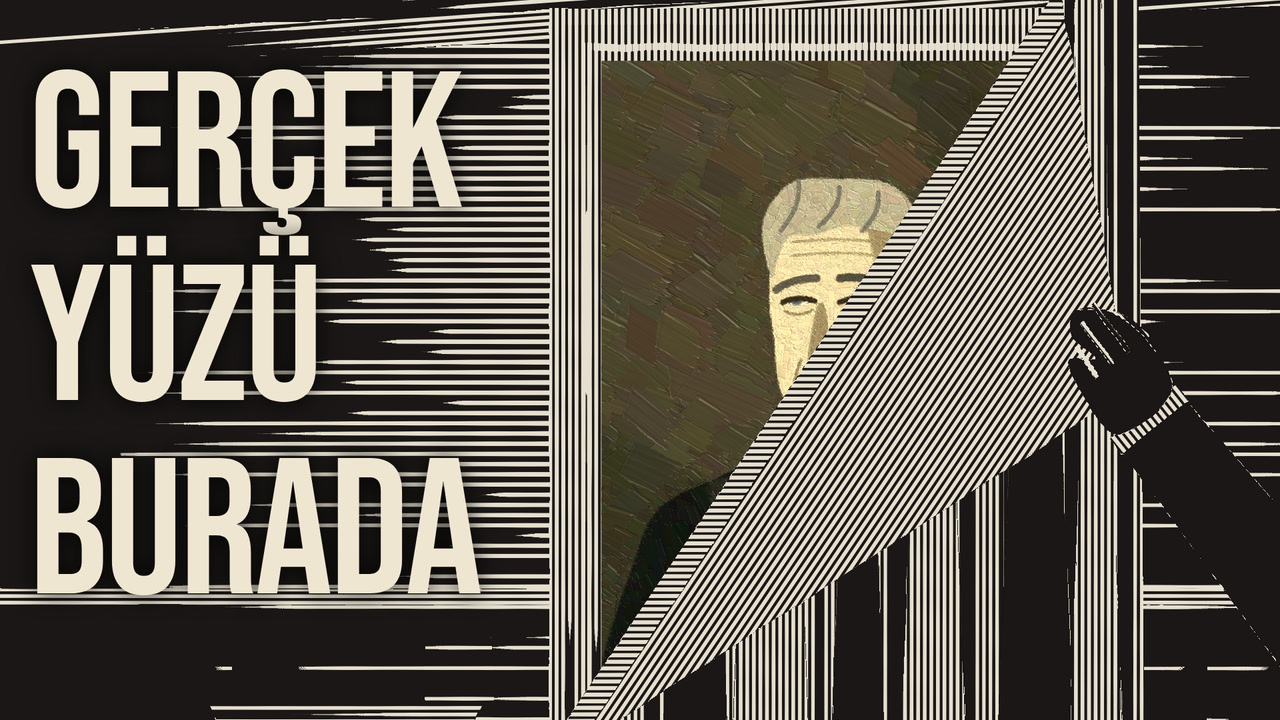
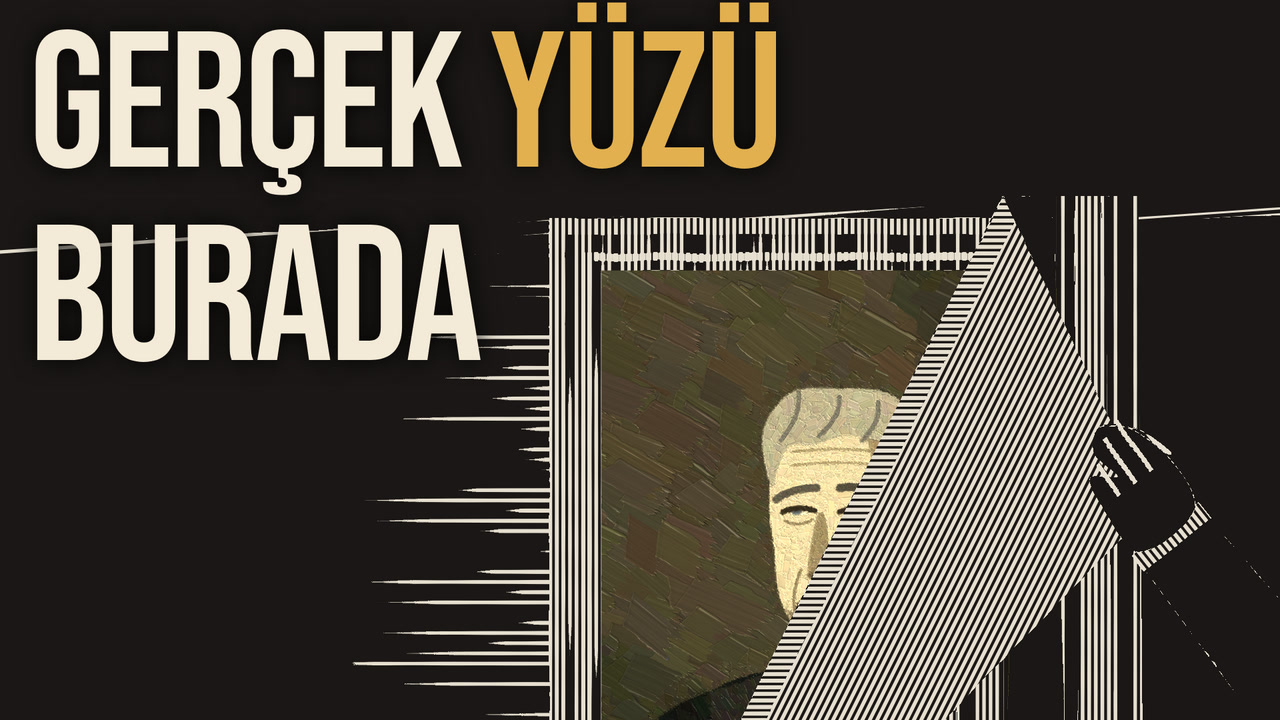
Dorian Gray kapakları kapak sistemine uydu: yazı sol üst, iki satır, tek altın vurgu
A: GERÇEK YÜZÜ / BURADA (3 satırdan 2'ye; sahne aşağıda, duvar ışığı kısık, yüz en parlak nokta).
B: BİRKAÇ CÜMLE / YETTİ (5 kelimelik ortalı yazı yerine; yakın plan, Dorian portresine dönük,
duman arkadan kulağa; Fable okumasıyla yaka griye çekildi, ip okuması giderildi).

Claude-Session: https://claude.ai/code/session_01DiDBPCNVdTbcKEowzqSXTP

diff --git a/dorian-gray/lib/kapak.js b/dorian-gray/lib/kapak.js
@@ -1,14 +1,22 @@
 // Kapaklar (1920×1080 çizilir, 1280×720 kaydedilir). Kullanım: kapak.html?render=1 → window.kapak('A'|'B', o)
-// A "ortadan başlamak": kilitli odada örtünün köşesi kalkmış; altında renkli tuvalde çökmüş yüzün bir gözü (tek renk = portre). Yazı: GERÇEK YÜZÜ BURADA (23 Kasım; eskisi KİMSE GÖRMEDİ).
-// B "A, B'yi etkiliyor": Lord Henry'nin sigara dumanı genç Dorian'ın kulağına uzanır; arkada şövalede genç portre. Yazı (4–6 kelime denemesi): HER ŞEY BİR CÜMLEYLE BAŞLADI.
+// A "ortadan başlamak": kilitli odada örtünün köşesi kalkmış; altında renkli tuvalde çökmüş yüzün bir gözü (tek renk = portre). Yazı: GERÇEK YÜZÜ / BURADA, "YÜZÜ" altın (23 Kasım; eskisi KİMSE GÖRMEDİ).
+// B "A, B'yi etkiliyor": Lord Henry'nin dumanı genç Dorian'ın kulağına uzanır; arkada şövalede genç portre. Yazı: BİRKAÇ CÜMLE / YETTİ, "CÜMLE" altın (senaryo B04: "yalnız birkaç cümle söyler").
+// 27 Kasım, kapak sistemi (kanal/KAPAK_SISTEMI.md): yazı sol üst, figür sağ, en çok 2 satır ve 4 kelime, tek vurgu kelimesi; vurgu altın = tablonun okr tonu (~43°).
+// Çekim: node dorian-gray/tools/kapak.js dorian-gray/kapak A '{"ad":"kapak_a2"}' A '{"ad":"kapak_a2_yazisiz","satir":[]}' B '{"ad":"kapak_b"}' B '{"ad":"kapak_b_yazisiz","satir":[]}'
 'use strict';
 (function () {
   const ST = { t: 2.2, lt: 2.2, p: .5, d: 4, at: 0 };
+  const FILDISI = '#F3EAD7', ALTIN = '#E2B04F';   // kapak sistemi: tablonun tonu ~43° (okr) = altın vurgu
   function yazi(ctx, satirlar, x, y, px, o = {}) {
     ctx.save(); ctx.setTransform(1, 0, 0, 1, 0, 0); ctx.textAlign = o.align || 'left'; ctx.textBaseline = 'alphabetic';
     ctx.font = `400 ${px}px "Bebas Neue"`; if (o.ls) ctx.letterSpacing = o.ls + 'px'; const lh = px * (o.lh || .92);
+    // satır düz yazı ya da [[parça, renk], …] (tek vurgu kelimesi için; kapak sistemi 27 Kasım: fildişi #F3EAD7, vurgu tek kelime)
     satirlar.forEach((s, i) => {
-      ctx.shadowColor = 'rgba(0,0,0,.85)'; ctx.shadowBlur = px * .12; ctx.fillStyle = (o.renk && o.renk[i]) || '#efe6d2'; ctx.fillText(s, x, y + i * lh);
+      ctx.shadowColor = 'rgba(0,0,0,.85)'; ctx.shadowBlur = px * .12;
+      const parca = Array.isArray(s) ? s : [[s, (o.renk && o.renk[i]) || FILDISI]];
+      let xx = o.align === 'center' ? x - parca.reduce((a, [t]) => a + ctx.measureText(t).width, 0) / 2 : x;
+      if (o.align === 'center') ctx.textAlign = 'left';
+      for (const [t, r] of parca) { ctx.fillStyle = r || FILDISI; ctx.fillText(t, xx, y + i * lh); xx += ctx.measureText(t).width; }
     });
     ctx.restore();
   }
@@ -30,10 +38,10 @@
     return [x + K[0], y + K[1]];
   }
   function kapakA(ctx, o) {
-    const cam = CAM(o.cx ?? 1170, o.cy ?? 430, o.z ?? 1.7); let Mf;
-    levha(ctx, cam, () => { SET.oda(); Mf = SET.cerceve(ODA_FR.x, ODA_FR.y, ODA_FR.s); SET.isik({ x: o.lx ?? 1260, y: o.ly ?? 380, r1: o.r1 ?? 620, a: o.ia ?? .7 }); }, [.02, 0, 0]);
+    const cam = CAM(o.cx ?? 1170, o.cy ?? 245, o.z ?? 1.7); let Mf;   // 27 Kasım: sahne aşağıda, yazıya üstte yer (eski cy 430); duvar ışığı kısık (eski r1 620, a .7): yazının arkası koyu, en parlak yer yüz
+    levha(ctx, cam, () => { SET.oda(); Mf = SET.cerceve(ODA_FR.x, ODA_FR.y, ODA_FR.s); SET.isik({ x: o.lx ?? 1260, y: o.ly ?? 380, r1: o.r1 ?? 420, a: o.ia ?? .5 }); }, [.02, 0, 0]);
     PORTRE.ciz(ctx, { M: Mf(cam), durum: o.durum || 'C', t: 10, expo: o.expo ?? 1.35 });
-    const A = o.A || [470, 0], B = o.B || [0, 700];
+    const A = o.A || [420, 0], B = o.B || [0, 840];   // 27 Kasım: dik katlama, el rozet bölgesinden yukarıda
     onKatman(ctx, cam, () => {
       const uc = perdeKalkik(1070, 100, A, B);
       // perdeyi tutan el (sol alttan uzanan kol, yüz yok)
@@ -46,22 +54,25 @@
       GR.restore();
       
     });
-    yazi(ctx, o.satir || ['GERÇEK', 'YÜZÜ', 'BURADA'], o.tx ?? 44, o.ty ?? 310, o.px ?? 290, { ls: o.ls ?? -4, lh: o.lh ?? 1.0 });   // 23 Kasım: 'KİMSE GÖRMEDİ' başlığı tekrar ediyordu (kapak merak açar, başlık tamamlar); eski yazı o.satir ile   // İ çerçeve kenarına binmesin (Fable)
+    yazi(ctx, o.satir || [[['GERÇEK ', null], ['YÜZÜ', ALTIN]], 'BURADA'], o.tx ?? 44, o.ty ?? 250, o.px ?? 290, { ls: o.ls ?? -4, lh: o.lh ?? 1.0 });   // 23 Kasım: 'KİMSE GÖRMEDİ' başlığı tekrar ediyordu (kapak merak açar, başlık tamamlar); eski yazı o.satir ile   // İ çerçeve kenarına binmesin (Fable)
   }
   function kapakB(ctx, o) {
-    const cam = CAM(o.cx ?? 1040, o.cy ?? 420, o.z ?? .95); let Mf;
+    const cam = CAM(o.cx ?? 730, o.cy ?? 450, o.z ?? 1.5); let Mf;   // 27 Kasım: yakın; Henry sol altta, Dorian ve portre sağda (eski 1040, 420, .95)
     levha(ctx, cam, () => { Mf = stuArka(ST, { isik: o.isik ?? .35 }); }, [.03, 0, 0]);
     PORTRE.ciz(ctx, { M: Mf(cam), durum: 'G', t: 10, expo: .95 });
+    // 27 Kasım (kapak sistemi): şerit yok; zemin bastırılır: odanın sol üstü gölgede (radyal), ışık sağdaki portrede kalır; figürler ve duman gölgenin üstünde
+    if (o.golge !== 0) { ctx.save(); ctx.setTransform(1, 0, 0, 1, 0, 0); const gx = o.gx ?? 260, gy = o.gy ?? 200, g = ctx.createRadialGradient(gx, gy, 0, gx, gy, o.gr ?? 1700);
+      g.addColorStop(0, `rgba(12,10,8,${o.golge ?? .9})`); g.addColorStop(.55, `rgba(12,10,8,${(o.golge ?? .9) * .8})`); g.addColorStop(1, 'rgba(12,10,8,0)'); ctx.fillStyle = g; ctx.fillRect(0, 0, W, H); ctx.restore(); }
     onKatman(ctx, cam, () => {
-      const h = HENRY(o.hx ?? 330, { yon: 1, h: 1040, y: 1300, kolOn: { a: o.ka ?? .25, b: o.kb ?? .35 }, kolArka: { a: -.1, b: .3 }, sigara: true, kenar: .6, egim: .02 });
-      const d = DOR(o.dx ?? 1080, { y: 1300, h: 1000, arka: false, yon: -1, kenar: .55, kenarYan: -1, bas: .1, kolOn: { a: .05, b: .1 } });
+      const h = HENRY(o.hx ?? 330, { yon: 1, h: o.hh ?? 1040, y: o.hy ?? 1650, kolOn: { a: o.ka ?? .25, b: o.kb ?? .35 }, kolArka: { a: -.1, b: .3 }, sigara: true, kenar: .6, egim: .02, yaka: o.yaka ?? .3 });
+      const d = DOR(o.dx ?? 1080, { y: o.dy ?? 1300, h: o.dh ?? 1000, arka: false, yon: o.dyon ?? 1, kenar: .55, kenarYan: o.dyon ?? 1, yaka: o.yaka ?? .3, bas: .1, kolOn: { a: .05, b: .1 } });
       // duman: sigaradan Dorian'ın kulağına giden tek çizgi
-      const x0 = o.sx ?? 482, y0 = o.sy ?? 300, x1 = o.kx ?? 1030, y1 = o.ky ?? 390; 
+      const x0 = o.sx ?? 482, y0 = o.sy ?? 650, x1 = o.kx ?? 1035, y1 = o.ky ?? 335;   // 27 Kasım: Dorian portresine dönük, duman arkadan kulağa (yüze girince burun/boru gibi okunuyordu) 
       for (let k = 0; k <= 70; k++) { const q = k / 70, x = x0 + (x1 - x0) * q, y = y0 + (y1 - y0) * q - Math.sin(q * Math.PI) * (o.kav ?? 90) + Math.sin(q * 13) * 9;
         INSAN.fill(SET.E2(x, y, 10 + 6 * Math.sin(q * Math.PI), 4 + 2 * Math.sin(q * Math.PI), .3 + q), .92 - .15 * q, { th: 0, id: 10 }); }
     });
-    if (o.bant !== 0) { ctx.save(); ctx.setTransform(1, 0, 0, 1, 0, 0); const g = ctx.createLinearGradient(0, 0, 0, o.bant ?? 430); g.addColorStop(0, 'rgba(0,0,0,.78)'); g.addColorStop(.8, 'rgba(0,0,0,.6)'); g.addColorStop(1, 'rgba(0,0,0,0)'); ctx.fillStyle = g; ctx.fillRect(0, 0, W, o.bant ?? 430); ctx.restore(); }   // yazı altına koyu bant (Fable)
-    yazi(ctx, o.satir || ['HER ŞEY BİR', 'CÜMLEYLE BAŞLADI'], o.tx ?? 960, o.ty ?? 175, o.px ?? 190, { align: 'center' });
+    if (o.bant) { ctx.save(); ctx.setTransform(1, 0, 0, 1, 0, 0); const g = ctx.createLinearGradient(0, 0, 0, o.bant); g.addColorStop(0, 'rgba(0,0,0,.78)'); g.addColorStop(.8, 'rgba(0,0,0,.6)'); g.addColorStop(1, 'rgba(0,0,0,0)'); ctx.fillStyle = g; ctx.fillRect(0, 0, W, o.bant); ctx.restore(); }   // eski yazı bandı (23 Kasım); kapak sistemiyle kapalı
+    yazi(ctx, o.satir || [[['BİRKAÇ ', null], ['CÜMLE', ALTIN]], 'YETTİ'], o.tx ?? 44, o.ty ?? 250, o.px ?? 290, { align: o.align || 'left', ls: o.ls ?? -4, lh: o.lh ?? 1.0 });
   }
   window.kapak = (v, o = {}) => {
     const cv = document.getElementById('c'), ctx = cv.getContext('2d'); baseT(ctx); ctx.fillStyle = '#000'; ctx.fillRect(0, 0, W, H);

diff --git a/dorian-gray/lib/insan.js b/dorian-gray/lib/insan.js
@@ -54,7 +54,7 @@ const INSAN = (() => {
     if (o.arka) { vurus(4, -430, 6, et + 10, 4, .5); if (kn != null) { vurus(40 * ks, -560, 28 * ks, -470, 4, kn * .9); vurus(30 * ks, -440, 50 * ks, et + 40, 3, kn * .8); } }
     else { fill(F([[0, -654], [16, -654], [30, -480], [8, -440], [-14, -480]]), .16, { th: PI / 2, id: 9 }); vurus(10, -460, 34, et + 20, 3, .7); if (kn != null) vurus(46 * ks, -600, 40 * ks, -500, 4, kn); }
     // yaka (beyaz) ve boyun
-    fill(F([[-22, -684], [28, -684], [34, -656], [-26, -656]]), o.arka ? .8 : .9, { th: 0, id: 5 });
+    fill(F([[-22, -684], [28, -684], [34, -656], [-26, -656]]), o.yaka ?? (o.arka ? .8 : .9), { th: 0, id: 5 });   // o.yaka: kapakta griye çekilir (beyaz dikdörtgen = papaz yakası okuması, 27 Kasım)
     fill(F([[-14, -712], [24, -712], [26, -682], [-16, -682]]), o.arka ? .03 : (o.yuzTon ?? .04), { th: PI / 2, id: 5 });
     GR.restore();
     // baş

diff --git a/dorian-gray/yayin.md b/dorian-gray/yayin.md
@@ -2,10 +2,14 @@
 
 1. **Yükle:** `dorian-gray.mp4` (yüksek kalite). Yüklemeden önce dosya adını `dorian-gray-in-portresi-oscar-wilde.mp4` yap. Telefonda izleme kopyası ayrı (`dorian_gray_telefon.mp4`); onu yükleme.
 2. **Ayrıntılar:** başlık, açıklama, etiketler `youtube.md`'den. Bölüm damgaları açıklamada (0:00 ile başlar; 9 bölüm, her biri ≥ 10 sn). Açıklamadaki "Kanalda ayrıca: Kafka …" satırının sonuna Kafka videosunun bağlantısını ekle.
-3. **Kapak ("Test ve karşılaştır"):** iki ayrı vaat, iki ayrı kompozisyon:
-   - **A** `kapak/kapak_a2.jpg` ("GERÇEK YÜZÜ BURADA", ortadan başlamak): kilitli odada bir el örtünün köşesini kaldırıyor; altında renkli tuvalde çökmüş yüzün bir gözü. Soru: kimin yüzü, neden saklı? Başlık tamamlar: Dorian Gray, kimse görmeseydi. Film bu odayla açılır (0:00, el perdede; A03, 0:17 "Bu örtünün altını yıllarca kimse görmedi. Biz göreceğiz."); vaat D03 (3:21; tablodaki yaşlanan yüz, aynadaki genç yüz) ve G16'da (7:39; "Dorian'ın yüzüne yazılmadı. Ama bir yere yazıldı.") karşılanır. Eski `kapak_a.jpg` ("KİMSE GÖRMEDİ") kullanılmaz: başlığın sözcüklerini tekrar ediyordu (23 Kasım değerlendirmesi, `uretim_plani.md` §13).
-   - **B** `kapak/kapak_b.jpg` ("HER ŞEY BİR CÜMLEYLE BAŞLADI", A B'yi etkiliyor): Lord Henry'nin sigara dumanı genç Dorian'ın kulağına uzanıyor, arkada genç portre. Soru: hangi cümle? Film 0:49'da bahçedeki cümlelerle karşılar; Henry'nin dumanı 0:44'te Dorian'ın kulağına uzanır.
-   - B kanalda ilk kez 4 kelimelik kapak yazısı denemesi (Eden çalışması: 4–6 kelime); harf yüksekliği %12 (A'da %18,8). Kazananı YouTube izlenme süresi payıyla seçer. Test sürerken başlık değiştirilmez. Test seti: `kapak/test/` (odak ölçümü); küçültme ve akış taklidi başkan denetiminde bakıldı.
+3. **Kapak ("Test ve karşılaştır"):** iki ayrı vaat, iki ayrı kompozisyon. 27 Kasım'da kapak sistemine (`kanal/KAPAK_SISTEMI.md`) uyduruldu: yazı sol üstte, figür sağda; iki satır; tek vurgu kelimesi altın (tablonun okr tonu, ~43°).
+   - **A** `kapak/kapak_a2.jpg` ("GERÇEK **YÜZÜ** / BURADA"; ortadan başlamak): kilitli odada bir el örtünün köşesini kaldırıyor; altında renkli tuvalde çökmüş yüzün bir gözü. Soru: kimin yüzü, neden saklı? Başlık tamamlar. Film bu odayla açılır (0:00 el perdede; A03, 0:17 "Bu örtünün altını yıllarca kimse görmedi. Biz göreceğiz."); vaat D03 (3:21) ve G16'da (7:39) karşılanır.
+     - 27 Kasım değişikliği: 3 satır 2 satıra indi, sahne aşağı alındı, duvar ışığı kısıldı (yazının arkası koyu; yazı hariç en parlak nokta yüz), örtü dik katlandı (el süre rozetinin üstünde).
+   - **B** `kapak/kapak_b.jpg` ("BİRKAÇ **CÜMLE** / YETTİ"; A B'yi etkiliyor): Henry sol altta, dumanı arkadan Dorian'ın kulağına uzanıyor; Dorian sağda kendi genç portresine bakıyor. Soru: hangi cümleler, neye yetti? Film 0:44'te dumanı, 0:49'da (B04) bahçedeki cümleleri gösterir: "yalnız birkaç cümle söyler".
+     - 27 Kasım değişikliği: beş kelimelik ortalı yazı ("HER ŞEY BİR CÜMLEYLE BAŞLADI") ve yazı bandı kalktı; yerine üç kelime, sol üst. Yakın plan; parlak pencere kadrajdan çıktı; odanın sol üstü gölgede.
+     - Kendi eleştirim ve Fable'ın bağımsız okumasıyla düzeltilenler: duman yüzün önüne girince burun gibi, enseye bağlanınca ip/tasma gibi okunuyordu, ucu arkadan kulağa taşındı. Siyah silüette beyaz yaka "papaz yakası" listesine giriyordu, griye çekildi.
+     - Bilinen zayıflık: B'nin vaadi 0:44'te karşılanıyor, ilk 5 saniyede değil. Fable A'yı akışta daha güçlü buldu (başlıkla tek merak, vaat 0:00'da). Kararı test verir.
+   - Test seti: `kapak/test/kapak_a2_test.jpg`, `kapak_b_test.jpg` (`araclar/kapak/test_seti.py`: küçültmeler, gri, odak, mobil ve TV taklidi, ölçümler `.txt`). Harf yüksekliği ikisinde de %18,9. Kazananı YouTube izlenme süresi payıyla seçer; test sürerken başlık değiştirilmez.
 4. **Kitle:** "Hayır, çocuklara özel değil".
 5. **Değiştirilmiş/sentetik içerik:** gerçekçi bir kişi ya da olay göstermiyor (animasyon; Wilde'ın 1882 fotoğrafları ve 1890 dergi sayfası arşiv görseli olarak gravür süzgecinden geçirilmiş). Ses yapay zekâ: açıklamada yazılı. YouTube'un o günkü sorusunu oku; gerçekçi içerik değilse "Hayır".
 6. **Altyazı:** Altyazılar → Dosya yükle → "Zamanlamalı" → `dorian-gray.tr.srt` (Türkçe).
